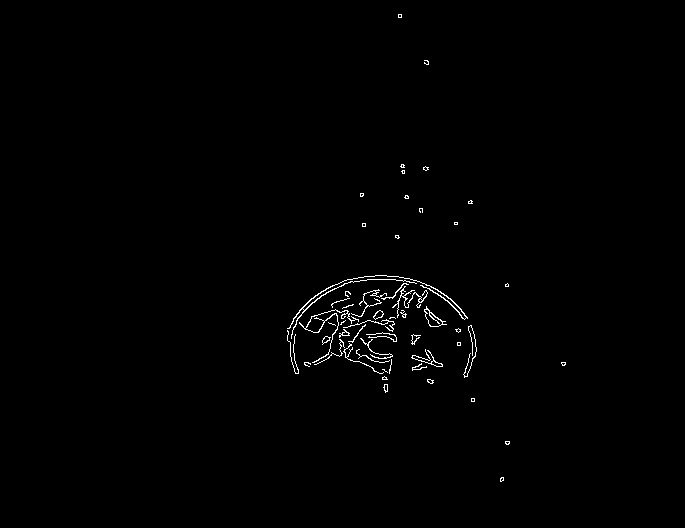
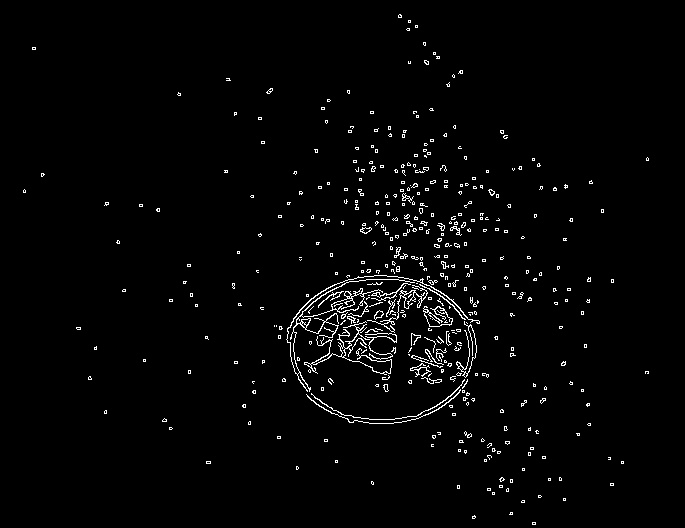
Run tests with adapted DIP codes

diff --git a/src/object_avoidance.py b/src/object_avoidance.py
@@ -1,0 +1,53 @@
+import cv2, time
+import numpy as np
+
+# comeca o timer para analise de performance
+start_time = time.time()
+
+# Load edge-detected image (from chosen method)
+img = cv2.imread('src/imoutput/canny/canny_edges_output-27.jpg', 0)
+if img is None:
+    raise ValueError("Edge-detected image not found. Please make sure 'edge_output.jpg' is available.")
+
+# Define parameters for navigation
+h, w = img.shape
+center_x, center_y = w // 2, h // 2
+move_direction = {"x": 0, "y": 0}
+
+# Function to calculate center of the detected object
+def calculate_object_center(edges):
+    # Detect contours in the edge-detected image
+    contours, _ = cv2.findContours(edges, cv2.RETR_EXTERNAL, cv2.CHAIN_APPROX_SIMPLE)
+    if contours:
+        # Get the largest contour (assuming it's the main object)
+        largest_contour = max(contours, key=cv2.contourArea)
+        M = cv2.moments(largest_contour)
+        if M['m00'] != 0:
+            cx = int(M['m10'] / M['m00'])
+            cy = int(M['m01'] / M['m00'])
+            return cx, cy
+    return None
+
+# Calculate object center
+object_center = calculate_object_center(img)
+
+if object_center:
+    obj_x, obj_y = object_center
+
+    # Determine movement based on object's position relative to center
+    if obj_x < center_x:
+        move_direction["x"] = 1  # Move right
+    elif obj_x > center_x:
+        move_direction["x"] = -1  # Move left
+
+    if obj_y < center_y:
+        move_direction["y"] = 1  # Move down
+    elif obj_y > center_y:
+        move_direction["y"] = -1  # Move up
+
+    print(f"Object detected at: ({obj_x}, {obj_y})")
+    print(f"Suggested move direction: {move_direction}")
+    processing_time = time.time() - start_time
+    print(f"Tempo de processamento Sobel: {processing_time:.4f} segundos")
+else:
+    print("No significant object detected. No maneuver required.")

diff --git a/src/log_edge_detection.py b/src/log_edge_detection.py
@@ -1,20 +1,25 @@
-import cv2
+import cv2, time, os, json
 import numpy as np
-import time, os, json
 
 # carrega a imagem em tons de cinza
-img = cv2.imread('src/imsample/debris_sample_1.jpg', cv2.IMREAD_GRAYSCALE)
+img = cv2.imread('src/imsample/debris_sample_2.jpg', cv2.IMREAD_GRAYSCALE)
 if img is None:
     raise ValueError("erro no arquivo de imagem sample")
 
 # comeca o timer para analise de performance
 start_time = time.time()
 
-# aplicacao de blur Gaussiano para diminuir o ruido
-blurred_img = cv2.GaussianBlur(img, (5, 5), 0)
+# recalibracao do gamma para melhores resultados
+gamma = 1.3
+img = img / 255.0
+img = np.power(img, gamma) * 255
+img = img.astype(np.uint8)
+
+# aplicacao de blur Gaussiano para diminuir o ruido, imagem perdia clareza visual
+#blurred_img = cv2.GaussianBlur(img, (5, 5), 0)
 
 # aplica o operador laplaciano
-log_edges = cv2.Laplacian(blurred_img, cv2.CV_64F)
+log_edges = cv2.Laplacian(img, cv2.CV_64F)
 log_edges = np.uint8(np.absolute(log_edges))
 
 processing_time = time.time() - start_time
@@ -22,7 +27,7 @@ print(f"Tempo de processamento LoG: {processing_time:.4f} segundos")
 
 # \/\/\/\/ processo de gravar o tempo de performance num json \/\/\/\/
 log_file = 'src/performance_log.json'
-method_name = "Metodo LoG"
+method_name = "Metodo LoG otimizado"
 
 if os.path.exists(log_file):
     with open(log_file, 'r') as f:

diff --git a/src/canny_edge_detection.py b/src/canny_edge_detection.py
@@ -1,26 +1,29 @@
-import cv2
-import numpy as np
-import time, os, json
+import cv2, time, os, json
 
 # carrega a imagem em tons de cinza
-img = cv2.imread('src/imsample/ebris_sample_1.jpg', cv2.IMREAD_GRAYSCALE)
+img = cv2.imread('src/imsample/debris_sample_2.jpg', cv2.IMREAD_GRAYSCALE)
 if img is None:
     raise ValueError("erro no arquivo de imagem sample")
 
 # comeca o timer para analise de performance
 start_time = time.time()
 
+# gamma = 0.7  
+# img = img / 255.0
+# img = np.power(img, gamma) * 255
+# img = img.astype(np.uint8)
+
 # aplicacao de blur Gaussiano para diminuir o ruido
 blurred_img = cv2.GaussianBlur(img, (5, 5), 0)
 
-canny_edges = cv2.Canny(blurred_img, 100, 200)
+canny_edges = cv2.Canny(img, 100, 200)
 
 processing_time = time.time() - start_time
 print(f"Tempo de processamento para Canny: {processing_time:.4f} segundos")
 
 # \/\/\/\/ processo de gravar o tempo de performance num json \/\/\/\/
 log_file = 'src/performance_log.json'
-method_name = "Metodo Canny"
+method_name = "Metodo Canny otimizado"
 
 if os.path.exists(log_file):
     with open(log_file, 'r') as f:

diff --git a/src/sobel_edge_detection.py b/src/sobel_edge_detection.py
@@ -1,9 +1,8 @@
-import cv2
+import cv2, time, os, json
 import numpy as np
-import time, os, json
 
 # carrega a imagem em tons de cinza
-img = cv2.imread('src/imsample/debris_sample_1.jpg', cv2.IMREAD_GRAYSCALE)
+img = cv2.imread('src/imsample/debris_sample_2.jpg', cv2.IMREAD_GRAYSCALE)
 if img is None:
     raise ValueError("erro no arquivo de imagem sample")
 
